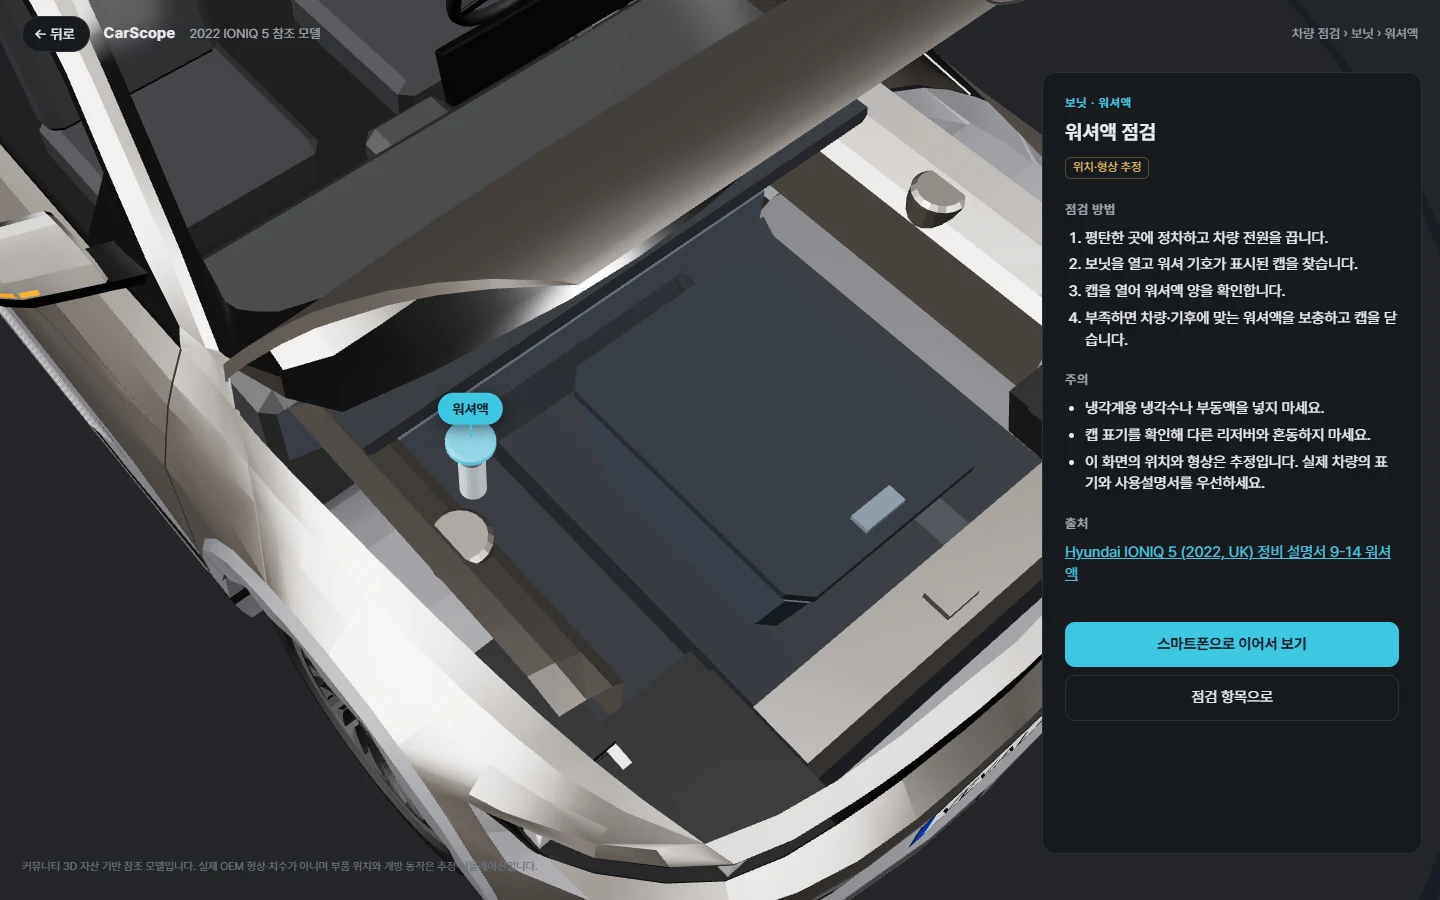
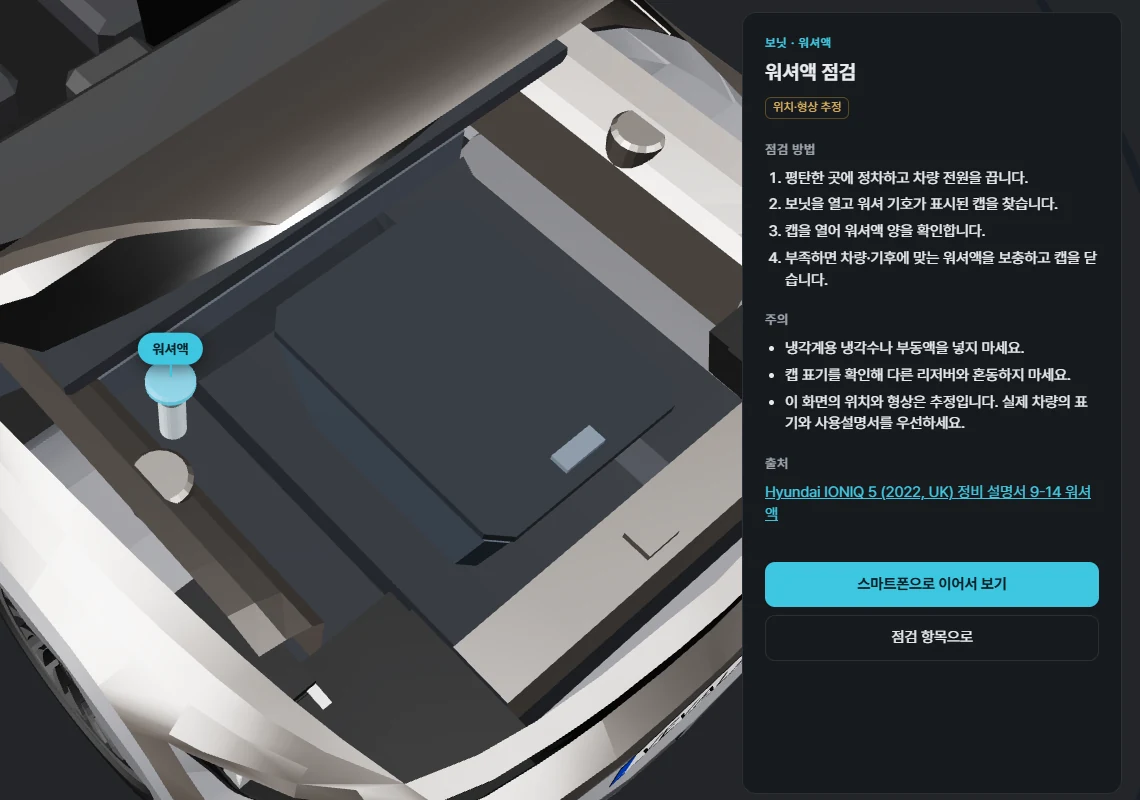
docs: match flow steps 3 and 4 crops so the README grid stays balanced
Both captures now show the same region (cap label and side panel); the
QR still decodes to the handoff contract URL after WebP compression.

diff --git a/README.md b/README.md
@@ -37,7 +37,7 @@ CarScope는 3D 차량 모델에서 점검할 부위를 찾아 열어 보고, 점
 
 | ③ 워셔액 점검 상세 | ④ 스마트폰 연결 QR |
 | --- | --- |
-| <a href="docs/visuals/p3-a4/flow-3-washer-detail.webp"><img src="docs/visuals/p3-a4/flow-3-washer-detail.webp" alt="워셔액 캡 근접 화면과 점검 방법, 주의사항, 공식 설명서 출처가 있는 상세 패널"></a> | <a href="docs/visuals/p3-a4/flow-4-qr-handoff.webp"><img src="docs/visuals/p3-a4/flow-4-qr-handoff.webp" width="300" alt="스마트폰으로 이어서 보기 패널: QR 코드, 직접 열기 링크, 개인정보 안내"></a> |
+| <a href="docs/visuals/p3-a4/flow-3-washer-detail.webp"><img src="docs/visuals/p3-a4/flow-3-washer-detail.webp" alt="워셔액 캡 근접 화면과 점검 방법, 주의사항, 공식 설명서 출처가 있는 상세 패널"></a> | <a href="docs/visuals/p3-a4/flow-4-qr-handoff.webp"><img src="docs/visuals/p3-a4/flow-4-qr-handoff.webp" alt="스마트폰으로 이어서 보기 패널: QR 코드, 직접 열기 링크, 개인정보 안내"></a> |
 | 근접 카메라와 함께 점검 방법·주의사항·출처를 표시합니다. | QR을 스캔하면 모바일 카메라 보조 화면이 열립니다. |
 
 위 4장은 1440×900 로컬 Chrome에서 `inspect.html`을 실제로 실행해 캡처했습니다(2026-11-01, main `062b6b2`와 같은 UI 코드). QR은 접근이 제한된 스테이징 주소를 가리킵니다. 마지막 모바일 보조 단계는 사용자가 실제 스마트폰에서 확인했지만 공개 가능한 실기기 화면 캡처가 없어 이미지를 넣지 않았습니다.
